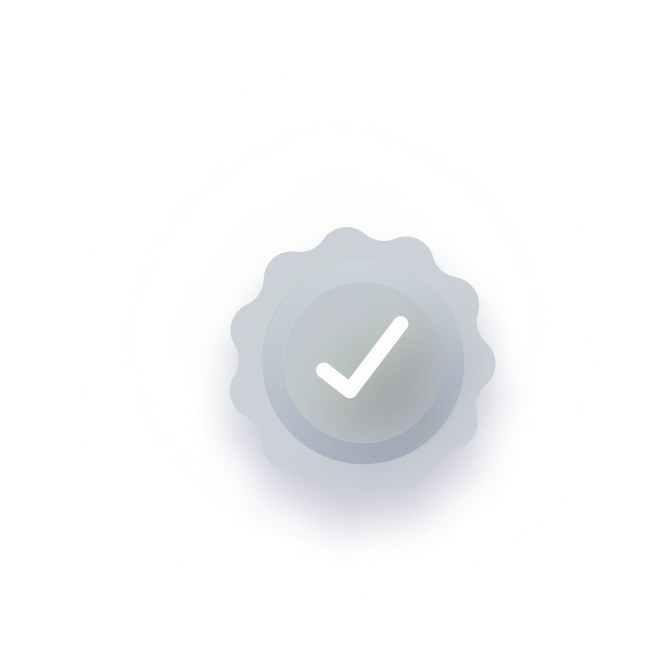
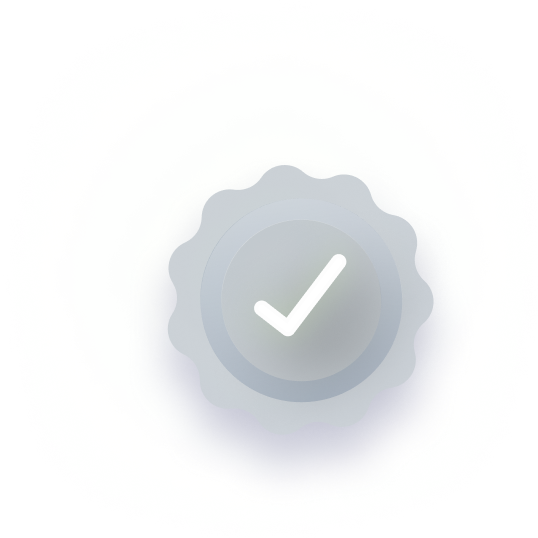
Seal: trimmed PNG (no whitespace), 280px fixed size, overflow visible, drop-shadow

Changed region(s): [[0.2974, 0.2974, 0.803, 0.8625], [0.4758, 0.4758, 0.6543, 0.6245]]

diff --git a/styles.css b/styles.css
@@ -1181,14 +1181,15 @@ h1, h2, h3, h4, p { margin: 0; }
 }
 .panel--process .panel__check-glass {
   position: absolute;
-  top: -15%; left: 50%;
+  top: -30px; left: 50%;
   transform: translateX(-50%);
-  width: 90%; height: 85%;
+  width: 280px; height: 280px;
   z-index: 2;
   pointer-events: none;
   background: url("assets/anima/check-seal.png") center / contain no-repeat;
   filter: drop-shadow(0px 20px 40px rgba(122,122,161,0.3));
 }
+.panel--process { overflow: visible; }
 .panel--process::before {
   content: "";
   position: absolute;
